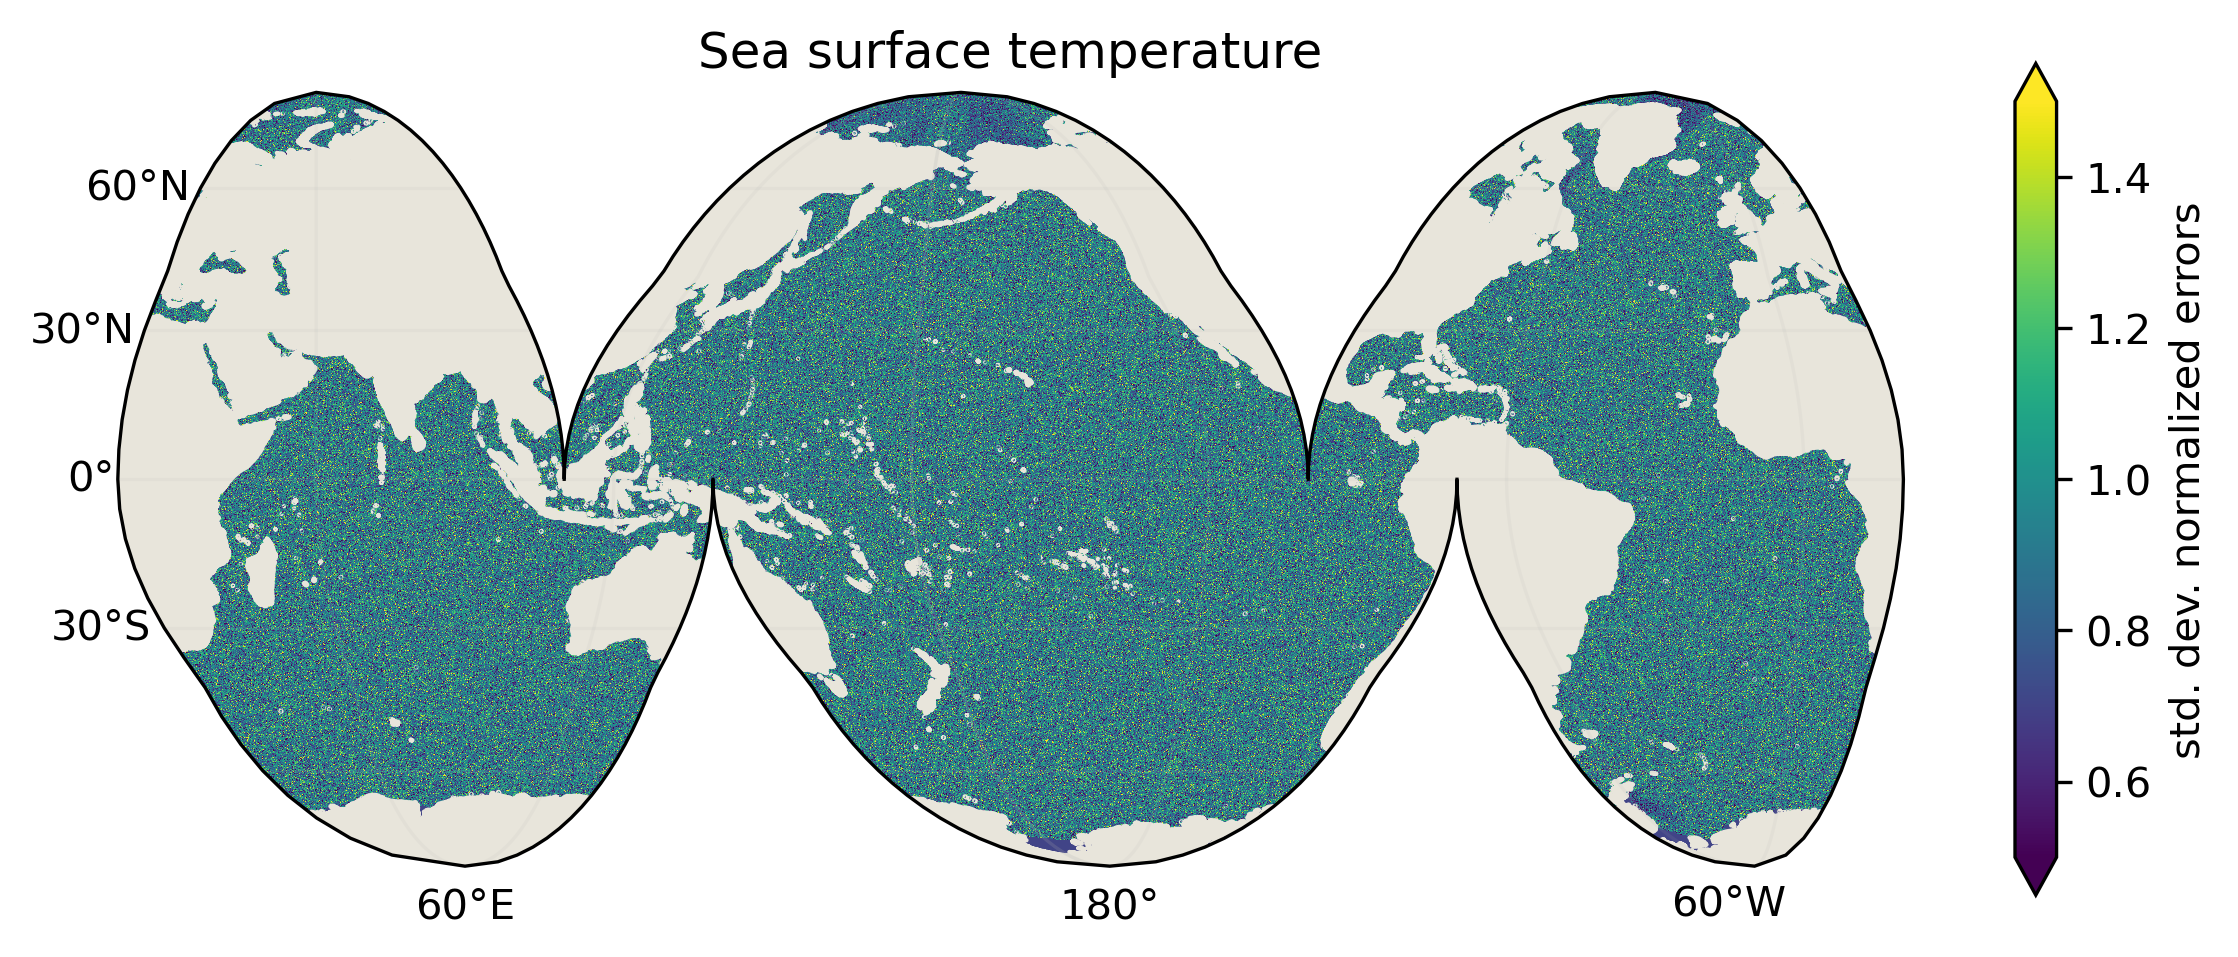
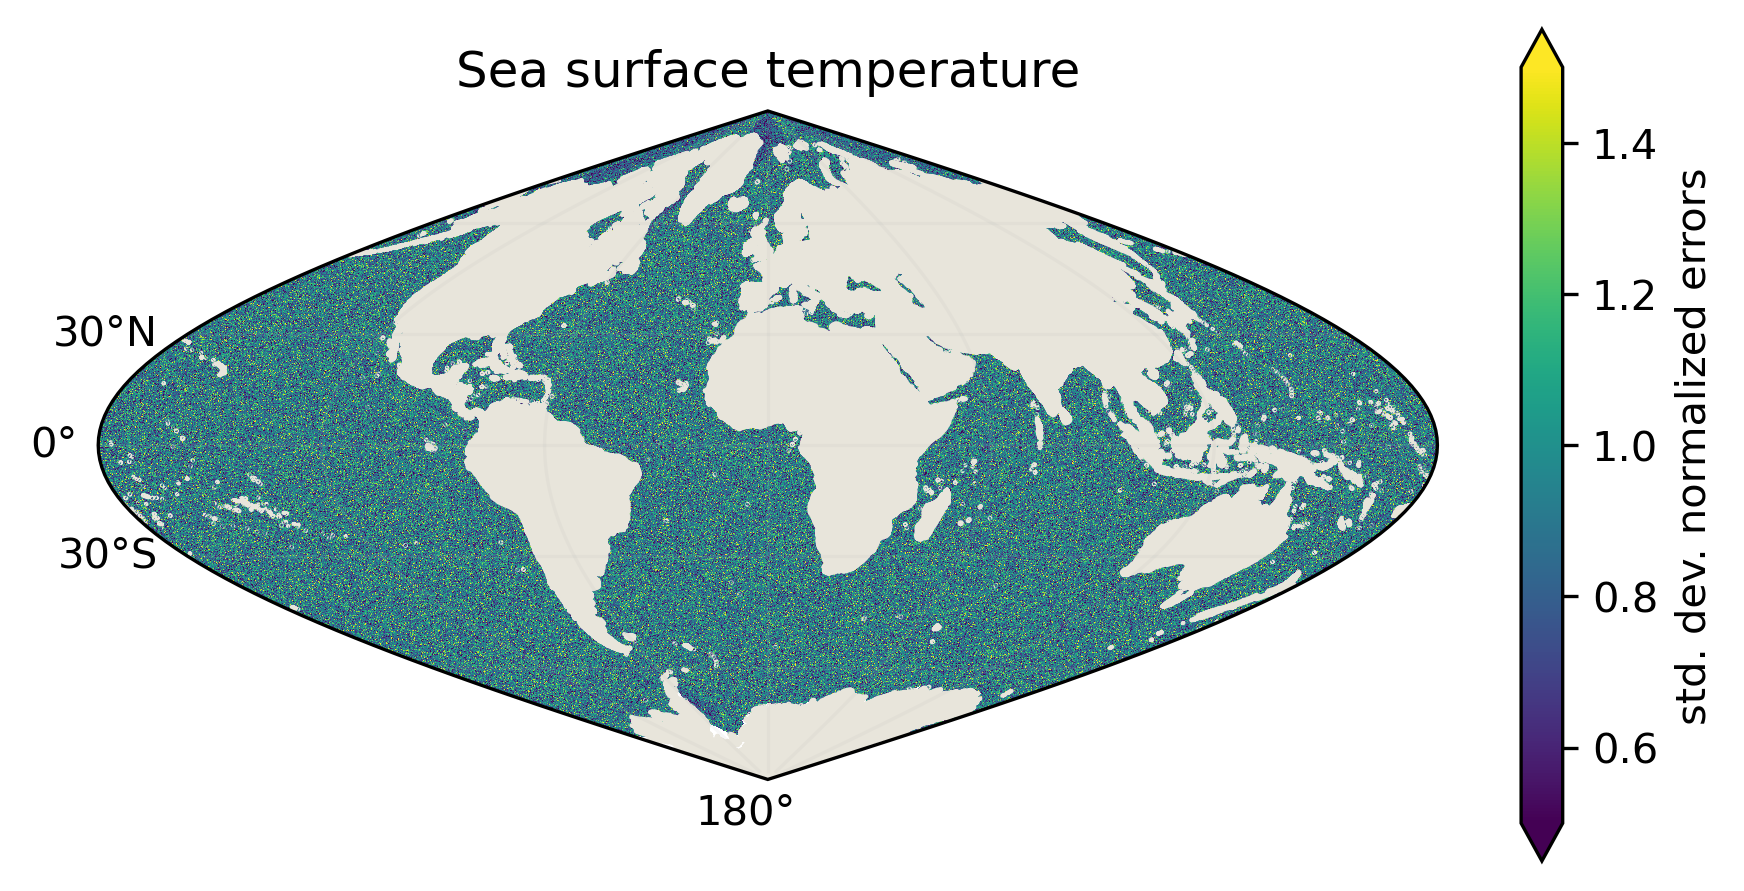
Fix: wrong display of missing data in World plots

diff --git a/kaleidoscope/val/plots.py b/kaleidoscope/val/plots.py
@@ -50,7 +50,7 @@ class WorldPlot(Plot):
         y: Literal["lat", "latitude"] | None = None,
     ) -> Figure:
         if projection is None:
-            projection = self.projection
+            projection = self.sinusoidal
         fig, ax = plt.subplots(
             figsize=plot_size,
             subplot_kw={"projection": projection},
@@ -99,13 +99,30 @@ class WorldPlot(Plot):
         )
 
     @property
-    def projection(self):
-        """Returns the default projection."""
+    def interrupted_goode_homolosine(self):
+        """
+        Returns the Interrupted Goode Homolosine projection
+        for ocean.
+
+        Plots using this projection do not show missing data
+        transparent (white).
+        """
         from cartopy.crs import InterruptedGoodeHomolosine
 
         return InterruptedGoodeHomolosine(
             central_longitude=-160.0,
             emphasis="ocean",
+        )
+
+    @property
+    def sinusoidal(self):
+        """
+        Returns the sinusoidal projection.
+        """
+        from cartopy.crs import Sinusoidal
+
+        return Sinusoidal(
+            central_longitude=0.0,
         )
 
     @property

diff --git a/README.md b/README.md
@@ -133,5 +133,5 @@ deviations implied by constraints on the error probability distribution and the
 Examples above illustrate the mean, the standard deviation and the minimum-to-maximum
 range of normalized simulated errors for an ensemble of ten variants of global monthly
 sea surface temperature (January 2000). The standard deviation and range of normalized
-errors is reduced at the North Pole and in the Weddell and Ross Sea due to constraints
-imposed by the freezing point of seawater. 
+errors is reduced at the North Pole and in the Weddell Sea due to constraints imposed
+by the freezing point of seawater. 
